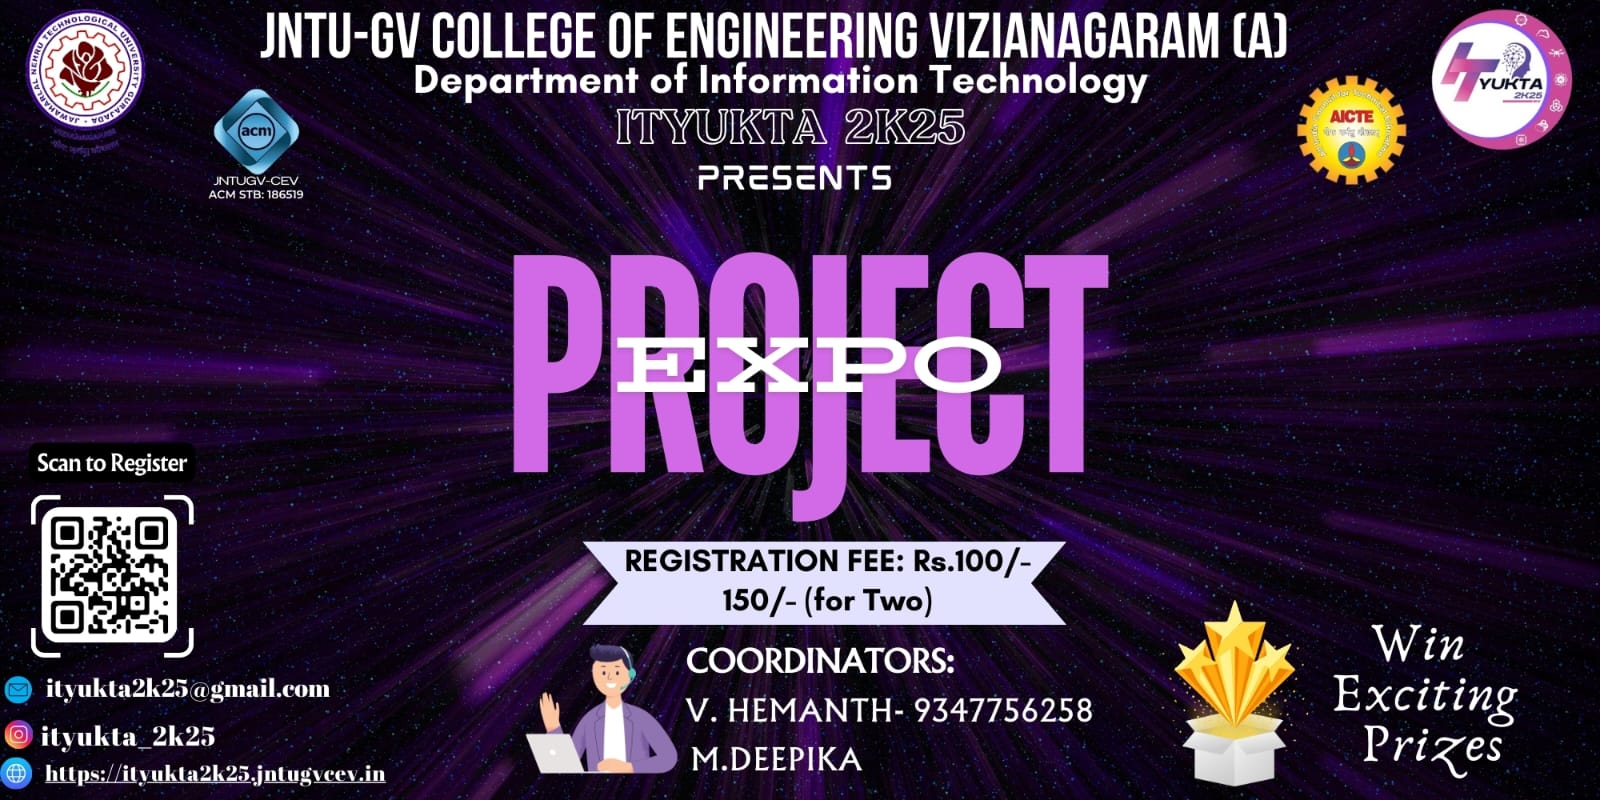
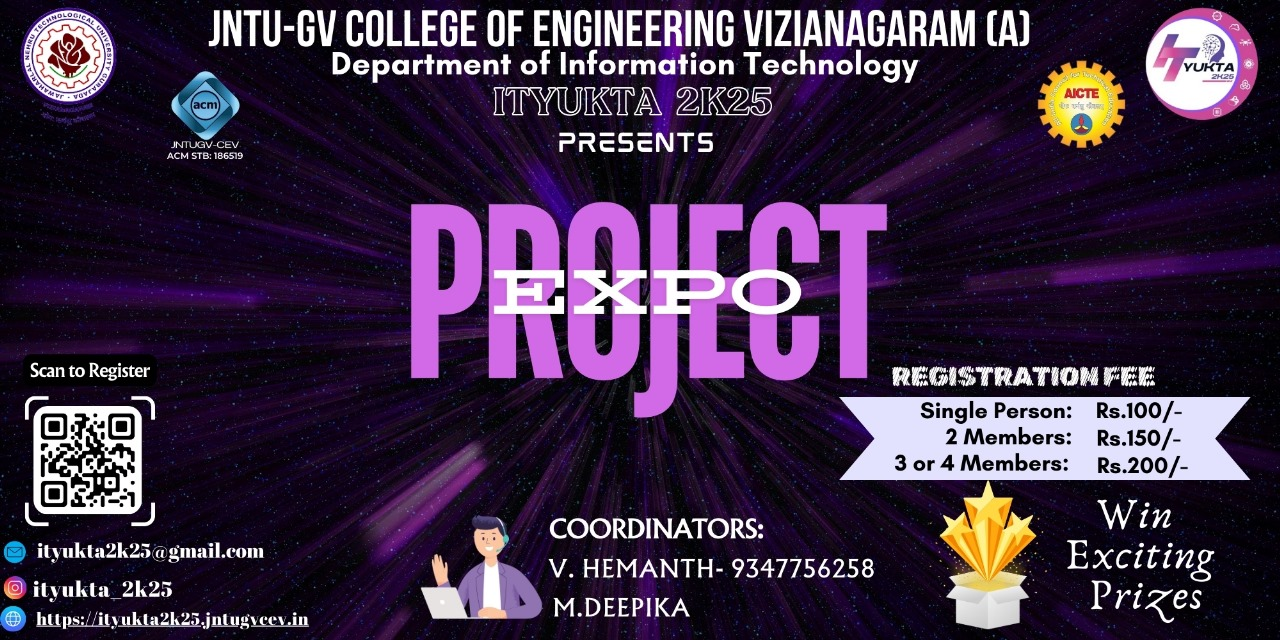
second commit

diff --git a/src/components/TechEvents/ProjectExpo.js b/src/components/TechEvents/ProjectExpo.js
@@ -45,8 +45,7 @@ const ProjectExpo=()=> {
               <ul className='list-disc text-[15px] sm:text-[17px] font-kittu text-white'>
                 <li className='flex gap-1 items-center'><IndianRupee size={16} className="ml-2 text-yellow-500"/>100-single person</li>
                 <li className='flex gap-1 items-center' ><IndianRupee size={16} className="ml-2 text-yellow-500"/>150-Duo</li>
-                <li className='flex gap-1 items-center'><IndianRupee size={16} className="ml-2 text-yellow-500"/>200-Trio</li>
-                <li className='flex gap-1 items-center'><IndianRupee size={16} className="ml-2 text-yellow-500"/>250- 4mem squad</li>
+                <li className='flex gap-1 items-center'><IndianRupee size={16} className="ml-2 text-yellow-500"/>200-Trio or Squad</li>
               </ul>
             </p>
             <p className='flex flex-row items-center gap-1 text-[16px] sm:text-[17px] font-kittu'><AlertTriangleIcon size={24} className='text-red-600'/>Before registering this event make sure that your general registration is completed</p>
